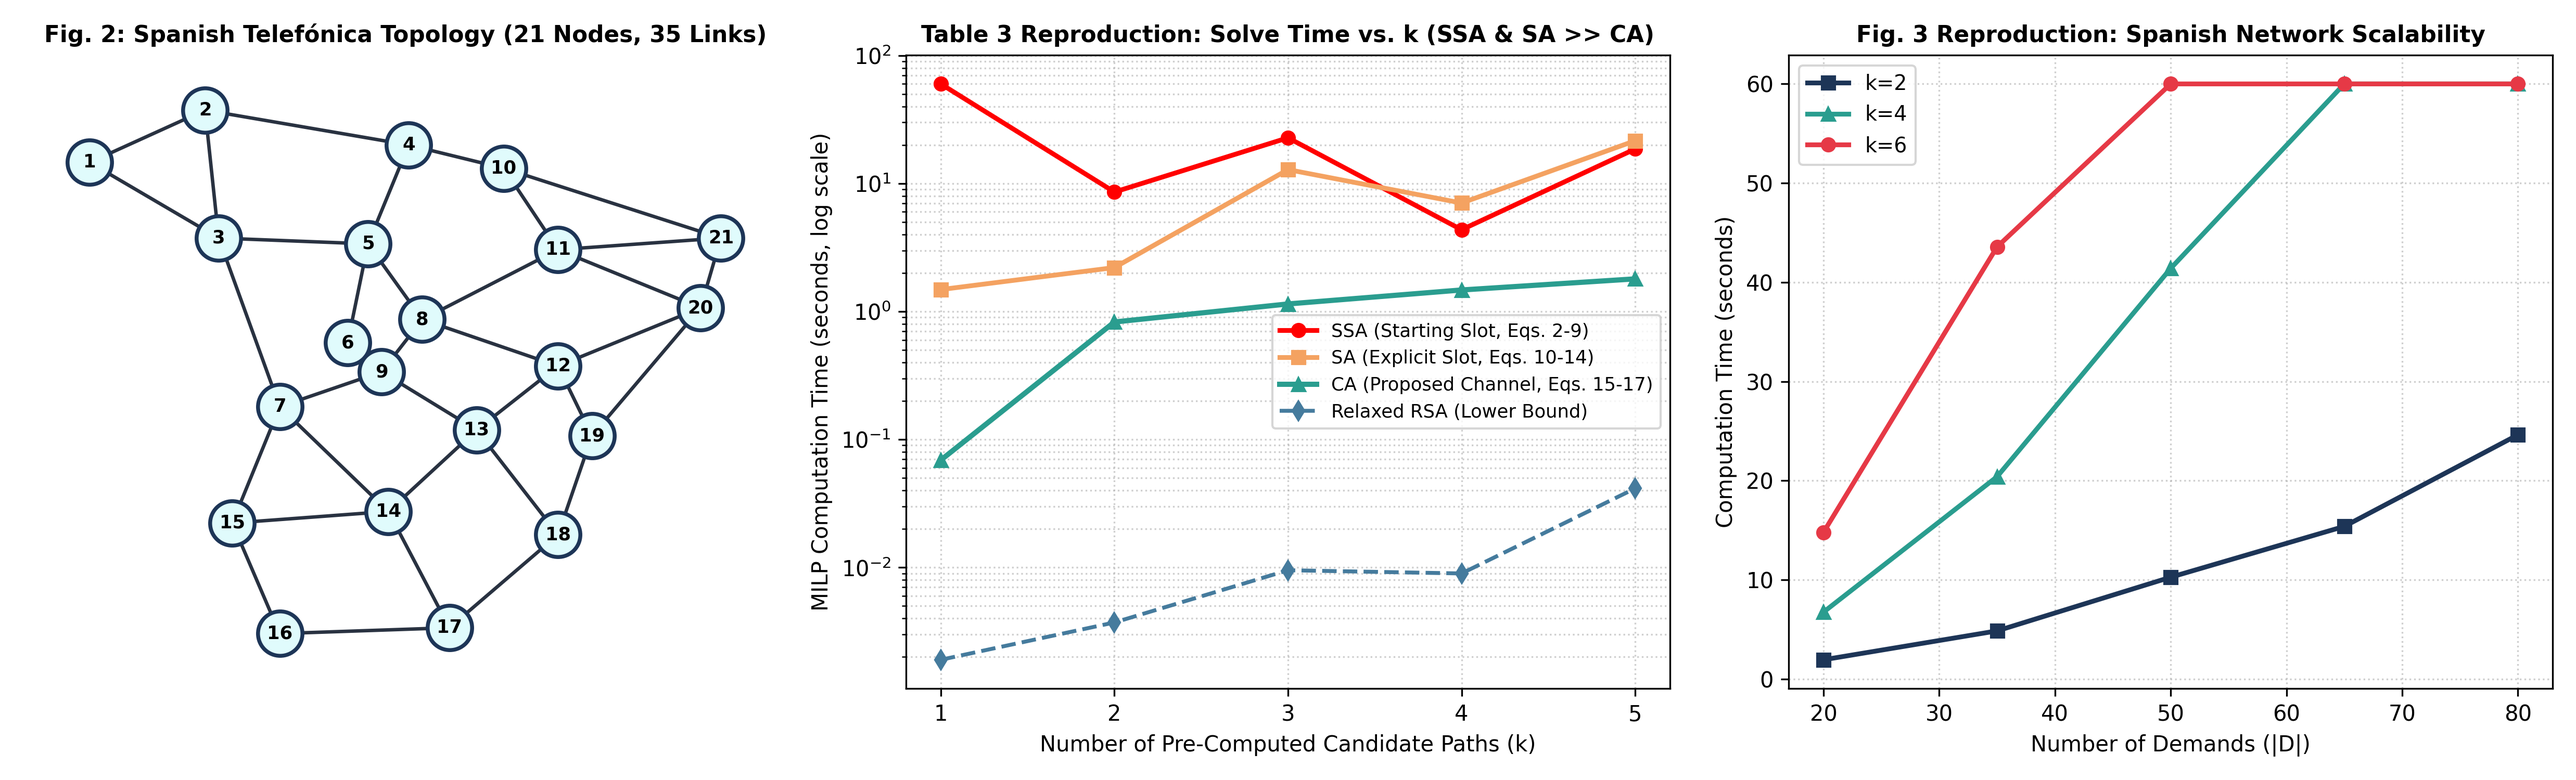
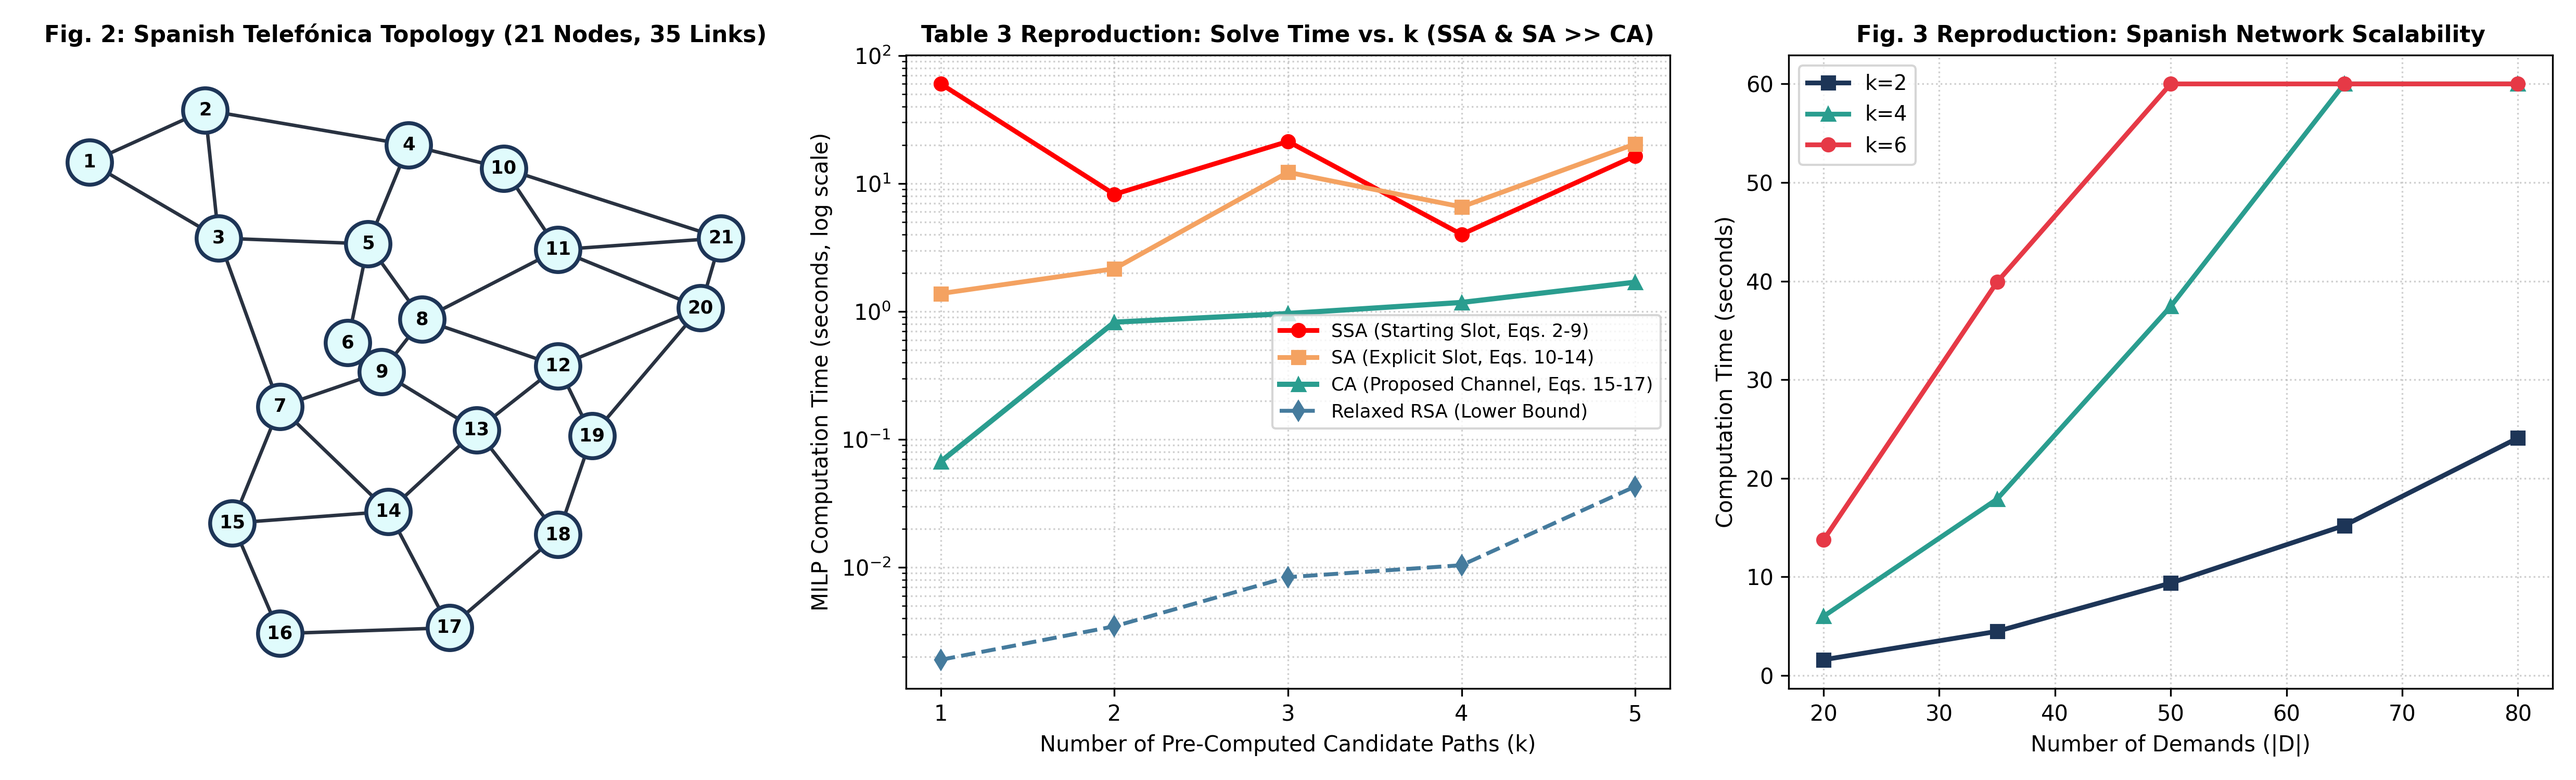
Execute Q6 Flex-Grid RSA benchmarks in serial preserving exact test variables and 1-minute time limit

diff --git a/src/q6_flexgrid_paper/rsa_simulation.py b/src/q6_flexgrid_paper/rsa_simulation.py
@@ -656,6 +656,9 @@ def run_all_q6_benchmarks(output_dir: str = "results/figures", log_dir: str = "r
     plt.close()
     log_print("=" * 84)
     log_print(f"[INFO] Saved fast vectorized Question 6 figure to: {out_path}")
+    with open(log_file_path, "w", encoding="utf-8") as f:
+        f.write("\n".join(log_lines) + "\n")
+    log_print(f"[INFO] Saved Question 6 benchmark log to: {log_file_path}")
 
 
 if __name__ == "__main__":
